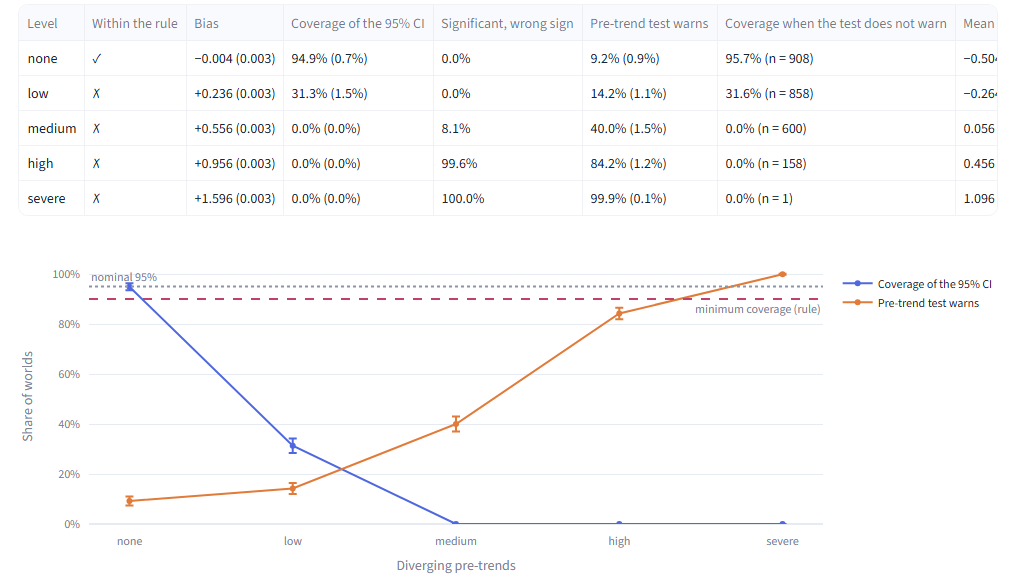
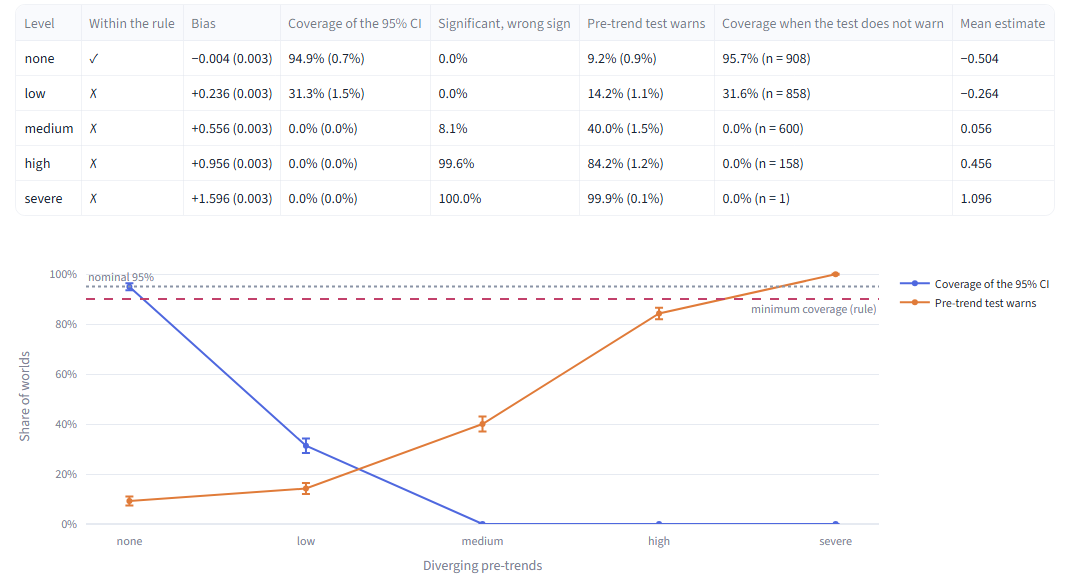
Promo page: the finish review's eight fixes, beat 3 screenshot retaken, colour key

diff --git a/docs/index.html b/docs/index.html
@@ -51,17 +51,17 @@ img { display: block; max-width: 100%; height: auto; }
   padding: 1rem var(--gutter); border-bottom: var(--rule) solid var(--ink);
 }
 .topline .name { font-size: 1.6rem; margin: 0; }
+.topline .author { margin: 0 auto 0 0; color: var(--ink-soft); font-size: 1rem; }
 .topline nav { display: flex; gap: 1.25rem; font-weight: 600; }
 
 /* First viewport: the question as a data portrait */
 .portrait { padding: clamp(1.5rem, 4vh, 3rem) var(--gutter) clamp(2rem, 5vh, 3.5rem); }
-.promise { font-size: clamp(1.6rem, 2.9vw, 2.75rem); max-width: 34ch; margin: 0 0 clamp(1.5rem, 4vh, 2.75rem); }
-.stage { display: grid; grid-template-columns: minmax(0, 1fr); gap: clamp(1.5rem, 3vw, 3rem); align-items: end; }
-@media (min-width: 64rem) { .stage { grid-template-columns: minmax(0, 7fr) minmax(0, 5fr); } }
-.question { display: grid; gap: clamp(0.5rem, 1.4vh, 1rem); margin: 0; font-size: clamp(2.6rem, 6.4vw, 6rem); }
+.promise { font-size: clamp(1.6rem, 2.6vw, 2.6rem); max-width: 52ch; margin: 0 0 clamp(1.5rem, 4vh, 2.75rem); }
+.stage { display: grid; gap: clamp(1.25rem, 3vh, 2rem); }
+.question { display: grid; gap: clamp(0.5rem, 1.4vh, 1rem); margin: 0; font-size: clamp(2.4rem, 5.6vw, 6rem); }
 .question .line { display: flex; flex-wrap: wrap; align-items: flex-end; gap: 0.4rem clamp(0.5rem, 1.2vw, 1rem); }
 .visually-hidden { position: absolute; width: 1px; height: 1px; overflow: hidden; clip-path: inset(50%); white-space: nowrap; }
-.answer { padding-bottom: 0.4rem; }
+.answer { display: grid; gap: 1.1rem; }
 .word { display: inline-flex; flex-direction: column; align-items: flex-start; }
 .word .w { position: relative; padding: 0.06em 0.14em 0.02em; z-index: 0; }
 .word.field .w::before {
@@ -75,18 +75,17 @@ img { display: block; max-width: 100%; height: auto; }
 }
 .f-pink { --field: var(--pink); }
 .f-gold { --field: var(--gold); }
-.verdict { margin: 0; font-size: clamp(1.6rem, 2.8vw, 2.6rem); max-width: 20ch; }
+.verdict { margin: 0; font-size: clamp(1.6rem, 2.6vw, 2.5rem); }
 .verdict span { color: var(--blue); }
-.action { display: flex; flex-wrap: wrap; align-items: center; gap: 1rem 2rem; margin-top: clamp(1.5rem, 4vh, 2.5rem); }
+.action { display: flex; flex-wrap: wrap; align-items: center; gap: 1rem 2rem; }
 .try {
   display: inline-block; background: var(--blue); color: #FFFFFF; text-decoration: none;
   font-family: var(--display); font-weight: 800; text-transform: uppercase; letter-spacing: 0.04em;
   font-size: 1.6rem; line-height: 1; padding: 0.85rem 1.6rem 0.75rem;
-  box-shadow: 0 6px 14px -6px rgba(27, 35, 51, 0.55);
-  transition: transform 160ms cubic-bezier(0.16, 1, 0.3, 1), box-shadow 160ms cubic-bezier(0.16, 1, 0.3, 1);
+  transition: background-color 160ms cubic-bezier(0.16, 1, 0.3, 1);
 }
-.try:hover { color: #FFFFFF; transform: translateY(-2px); box-shadow: 0 10px 20px -8px rgba(27, 35, 51, 0.6); }
-.try:active { transform: translateY(1px); box-shadow: 0 3px 8px -4px rgba(27, 35, 51, 0.6); }
+.try:hover { color: #FFFFFF; background: var(--ink); }
+.try:active { background: #0E131D; }
 .for-whom { margin: 0; max-width: 46ch; }
 .for-whom small { display: block; color: var(--ink-soft); font-size: 0.95rem; margin-top: 0.3rem; }
 
@@ -96,6 +95,11 @@ img { display: block; max-width: 100%; height: auto; }
   @keyframes lay { from { transform: scaleX(0); } to { transform: scaleX(1); } }
   @keyframes settle { from { transform: translateY(-0.4rem); opacity: 0.35; } to { transform: none; opacity: 1; } }
 }
+
+.key { display: flex; flex-wrap: wrap; align-items: center; gap: 0.6rem 1.6rem; padding: 1rem var(--gutter); border-top: 2px solid var(--ink); border-bottom: 2px solid var(--ink); font-size: 0.98rem; }
+.key .lettered { font-size: 1.15rem; letter-spacing: 0.06em; }
+.key span { display: inline-flex; align-items: center; gap: 0.5rem; }
+.key i { display: inline-block; width: 1.6rem; height: 1rem; background: var(--c); }
 
 /* The one ruled line through the beats */
 .beats { position: relative; }
@@ -118,14 +122,15 @@ img { display: block; max-width: 100%; height: auto; }
 /* Beat 2: the route from the question to the method */
 .route { list-style: none; margin: 0; padding: 0; display: grid; gap: 0.7rem; }
 .route li { display: grid; grid-template-columns: 1fr; }
+.route .bar { min-width: max-content; }
 .route .bar {
   font-family: var(--display); font-weight: 800; text-transform: uppercase; letter-spacing: 0.02em;
   font-size: clamp(1.15rem, 1.8vw, 1.55rem); line-height: 1.05; padding: 0.55rem 0.75rem 0.45rem;
 }
 .route .label { font-size: 0.95rem; color: var(--ink-soft); padding: 0.25rem 0.1rem 0; }
-.bar.causal { background: var(--blue); color: #FFFFFF; width: 92%; }
+.bar.causal { background: var(--blue); color: #FFFFFF; width: 55%; }
 .bar.cutoff { background: var(--magenta); color: #FFFFFF; width: 70%; }
-.bar.form { background: var(--blue); color: #FFFFFF; width: 82%; }
+.bar.form { background: var(--blue); color: #FFFFFF; width: 85%; }
 .bar.method { background: var(--ink); color: #FFFFFF; width: 100%; }
 
 /* Beat 3: the main result, on an ink field */
@@ -180,6 +185,7 @@ footer p { margin: 0; max-width: 70ch; }
 
 <header class="topline">
   <p class="name lettered">Causal Lab</p>
+  <p class="author">Thierry Z. Barhame · MSc project, ELTE</p>
   <nav aria-label="Project links">
     <a href="https://causal-lab-a-virtual-laboratory-for-causal-research-busavtyebb.streamlit.app">The app</a>
     <a href="https://github.com/esst-prog2/CAUSAL-LAB-A-Virtual-Laboratory-for-Causal-Research">Source code</a>
@@ -199,8 +205,6 @@ footer p { margin: 0; max-width: 70ch; }
         </span>
         <span class="line" aria-hidden="true">
           <span class="word field f-gold" style="--d: 180ms"><span class="w">associated with</span><span class="tag">Unclear</span></span>
-        </span>
-        <span class="line" aria-hidden="true">
           <span class="word field f-pink" style="--d: 360ms"><span class="w">lung cancer?</span><span class="tag">To confirm</span></span>
         </span>
       </p>
@@ -215,14 +219,24 @@ footer p { margin: 0; max-width: 70ch; }
     </div>
   </section>
 
+  <div class="key" role="note" aria-label="Colour key">
+    <span class="lettered">Key</span>
+    <span><i style="--c: var(--pink)"></i>To confirm</span>
+    <span><i style="--c: var(--gold)"></i>Unclear</span>
+    <span><i style="--c: var(--blue)"></i>Confirmed, and the action</span>
+    <span><i style="--c: var(--magenta)"></i>A cutoff</span>
+    <span><i style="--c: var(--green)"></i>The true effect</span>
+    <span><i style="--c: var(--crimson)"></i>What fails</span>
+  </div>
+
   <div class="beats">
     <section class="beat" aria-labelledby="b1">
       <h2 id="b1" class="lettered">It reads your question first.</h2>
       <div class="pair">
         <p class="lede">Type <em>Is smoking associated with lung cancer?</em> Causal Lab says the question is unclear, marks <em>smoking</em> and <em>lung cancer</em> “to confirm”, and asks whether you want a causal effect. It does not pick a method until it knows what you want to know.</p>
         <figure class="shot">
-          <img src="img/beat1-question.png" width="980" height="866" alt="The Research Question screen of Causal Lab: What the question asks: unclear, based on the words 'associated with'. Treatment smoking and outcome lung cancer are marked 'to confirm'; population, comparison, estimand, assignment and data are unknown. A note says a method cannot be chosen before it is settled whether a causal effect is asked for.">
-          <figcaption>Screenshot from a real run of Causal Lab, Research Question screen.</figcaption>
+          <a href="img/beat1-question.png"><img src="img/beat1-question.png" width="980" height="866" alt="The Research Question screen of Causal Lab: What the question asks: unclear, based on the words 'associated with'. Treatment smoking and outcome lung cancer are marked 'to confirm'; population, comparison, estimand, assignment and data are unknown. A note says a method cannot be chosen before it is settled whether a causal effect is asked for."></a>
+          <figcaption>Screenshot from a real run of Causal Lab, Research Question screen. <a href="img/beat1-question.png">Open full size</a>.</figcaption>
         </figure>
       </div>
     </section>
@@ -240,8 +254,8 @@ footer p { margin: 0; max-width: 70ch; }
           </ol>
         </div>
         <figure class="shot">
-          <img src="img/beat2-method.png" width="1010" height="560" alt="The Method Recommendation screen: Recommended method: Regression Discontinuity, for the effect of receiving a scholarship on university enrollment near the eligibility cutoff, with the causal estimand, why it fits, the identification strategy, key assumptions, and threats and diagnostics.">
-          <figcaption>Screenshot from a real run of Causal Lab, Method Recommendation screen.</figcaption>
+          <a href="img/beat2-method.png"><img src="img/beat2-method.png" width="1010" height="560" alt="The Method Recommendation screen: Recommended method: Regression Discontinuity, for the effect of receiving a scholarship on university enrollment near the eligibility cutoff, with the causal estimand, why it fits, the identification strategy, key assumptions, and threats and diagnostics."></a>
+          <figcaption>Screenshot from a real run of Causal Lab, Method Recommendation screen. <a href="img/beat2-method.png">Open full size</a>.</figcaption>
         </figure>
       </div>
     </section>
@@ -256,13 +270,13 @@ footer p { margin: 0; max-width: 70ch; }
           <div class="row"><span class="k">True effect</span><div class="track"><span class="fill truth">−0.50</span></div></div>
           <div class="row"><span class="k">Average estimate</span><div class="track"><span class="fill estimate">−0.264</span></div></div>
           <div class="row"><span class="k">Test stays quiet</span><div class="track"><span class="fill quiet">858 of 1,000 worlds</span></div></div>
-          <div class="row"><span class="k">Of those, the interval…</span><div class="split"><span class="fill cover">covers 31.6%</span><span class="fill miss">misses 68.4%</span></div></div>
+          <div class="row"><span class="k">When the test is quiet, the 95% interval</span><div class="split"><span class="fill cover">covers 31.6%</span><span class="fill miss">misses 68.4%</span></div></div>
           <p class="note">Bars drawn to scale: the estimate’s length is its size relative to the true effect. Source: the stored study, <a href="https://github.com/esst-prog2/CAUSAL-LAB-A-Virtual-Laboratory-for-Causal-Research/blob/main/docs/DEMO_DETAILS.md">DEMO_DETAILS.md</a> and <a href="https://github.com/esst-prog2/CAUSAL-LAB-A-Virtual-Laboratory-for-Causal-Research/blob/main/causal_lab/data/demo_study/results.json">results.json</a>.</p>
         </div>
 
         <figure class="shot">
-          <img src="img/beat3-study.png" width="1010" height="580" alt="The Guided Demo screen: table for diverging pre-trends by level. At low, bias +0.236, coverage 31.3%, the pre-trend test warns in 14.2% of worlds, and coverage when the test does not warn is 31.6% (n = 858). Below, a chart: coverage of the 95% interval falls from 94.9% to 0% as the violation grows, while the test's warning rate rises.">
-          <figcaption>Screenshot from a real run of Causal Lab, Guided Demo screen.</figcaption>
+          <a href="img/beat3-study.png"><img src="img/beat3-study.png" width="1070" height="580" alt="The Guided Demo screen: table for diverging pre-trends by level. At low, bias +0.236, coverage 31.3%, the pre-trend test warns in 14.2% of worlds, and coverage when the test does not warn is 31.6% (n = 858). Below, a chart: coverage of the 95% interval falls from 94.9% to 0% as the violation grows, while the test's warning rate rises."></a>
+          <figcaption>Screenshot from a real run of Causal Lab, Guided Demo screen. <a href="img/beat3-study.png">Open full size</a>.</figcaption>
         </figure>
       </div>
     </section>

diff --git a/PROCESS.md b/PROCESS.md
@@ -9,3 +9,4 @@ How the promo page, the video and the slides were made (Advanced Programming, Se
 | 3 | 2026-11-13 | The look, step 1: Impeccable `shape` (slide 10) | Impeccable had no product record, so it wrote `PRODUCT.md` first (users, positioning, constraints, evidence on hand). It found the app's existing colours (indigo, truth green, threshold magenta) and kept them. From seven visual worlds of the audience's own culture, its dice assigned number four, W. E. B. Du Bois's data portraits (Paris, 1900); it weighed six catalogue challengers (one competitive, five declined, each declined one lending a rule) and served the choice as a decision page in the browser. It then wrote a design brief, no code. The direction contract stays in `.impeccable/` (git-ignored, never published beside the page). No image generation here, so the page is built from code. | Confirmed the product facts and chose static HTML/CSS. Chose the rolled direction, the Du Bois data portraits, on the decision page. Confirmed the brief. |
 | 4 | 2026-11-13 | Three screenshots from a real run (slide 21) | Claude Code ran the app locally on the code of PR #41 and drove it with gstack's browser: the smoking question (read as unclear, both terms "to confirm", no method), the scholarship-cutoff question (form filled from the question and confirmed, Regression Discontinuity recommended), and the Guided Demo's diverging pre-trends table. Each image in `docs/img/` carries its origin inside the file. | Nothing yet: the agent chose the crops; the author sees them on the page. |
 | 5 | 2026-11-13 | The page, built from the brief | Claude Code wrote `docs/index.html` (static HTML/CSS, fonts self-hosted in `docs/fonts/` under the SIL Open Font License, `docs/.nojekyll`). Before building it corrected a contradiction in the brief: crimson had been both the failure colour and the Try it button; now blue is the action, gold "unclear", pink "to confirm", crimson failure only. It removed one sentence it could not support (a claim about chatbots). It checked the page at 1440, 1280 and 390 pixels wide, and ran Impeccable's detector: one paragraph set in capitals was rewritten in lower case; the capitals of the headline and the tight display leading were kept as the lettering of the chosen world. | Nothing yet: the author sees the page at the next step. |
+| 6 | 2026-11-13 | Impeccable's finish review | A fresh reviewer agent (no access to this conversation) judged the page against the design contract: verdict "fix", 8 material fixes: the first screen had become a split hero; the author missing from the top line; the beat 3 screenshot cut the "Mean estimate" column that is the source of −0.264; beat 2's bar lengths meant nothing; a shadow on the flat Try it button; the dark field of the main result not in the contract; screenshots unreadable on phones; a label that read as cut off. All fixed in one batch (the beat 3 screenshot retaken from a real run at 1700 px), plus a colour key. Second pass: all 8 resolved, verdict "ship" (on the fixes, not a new full review). | Kept the dark field for the main result. |
